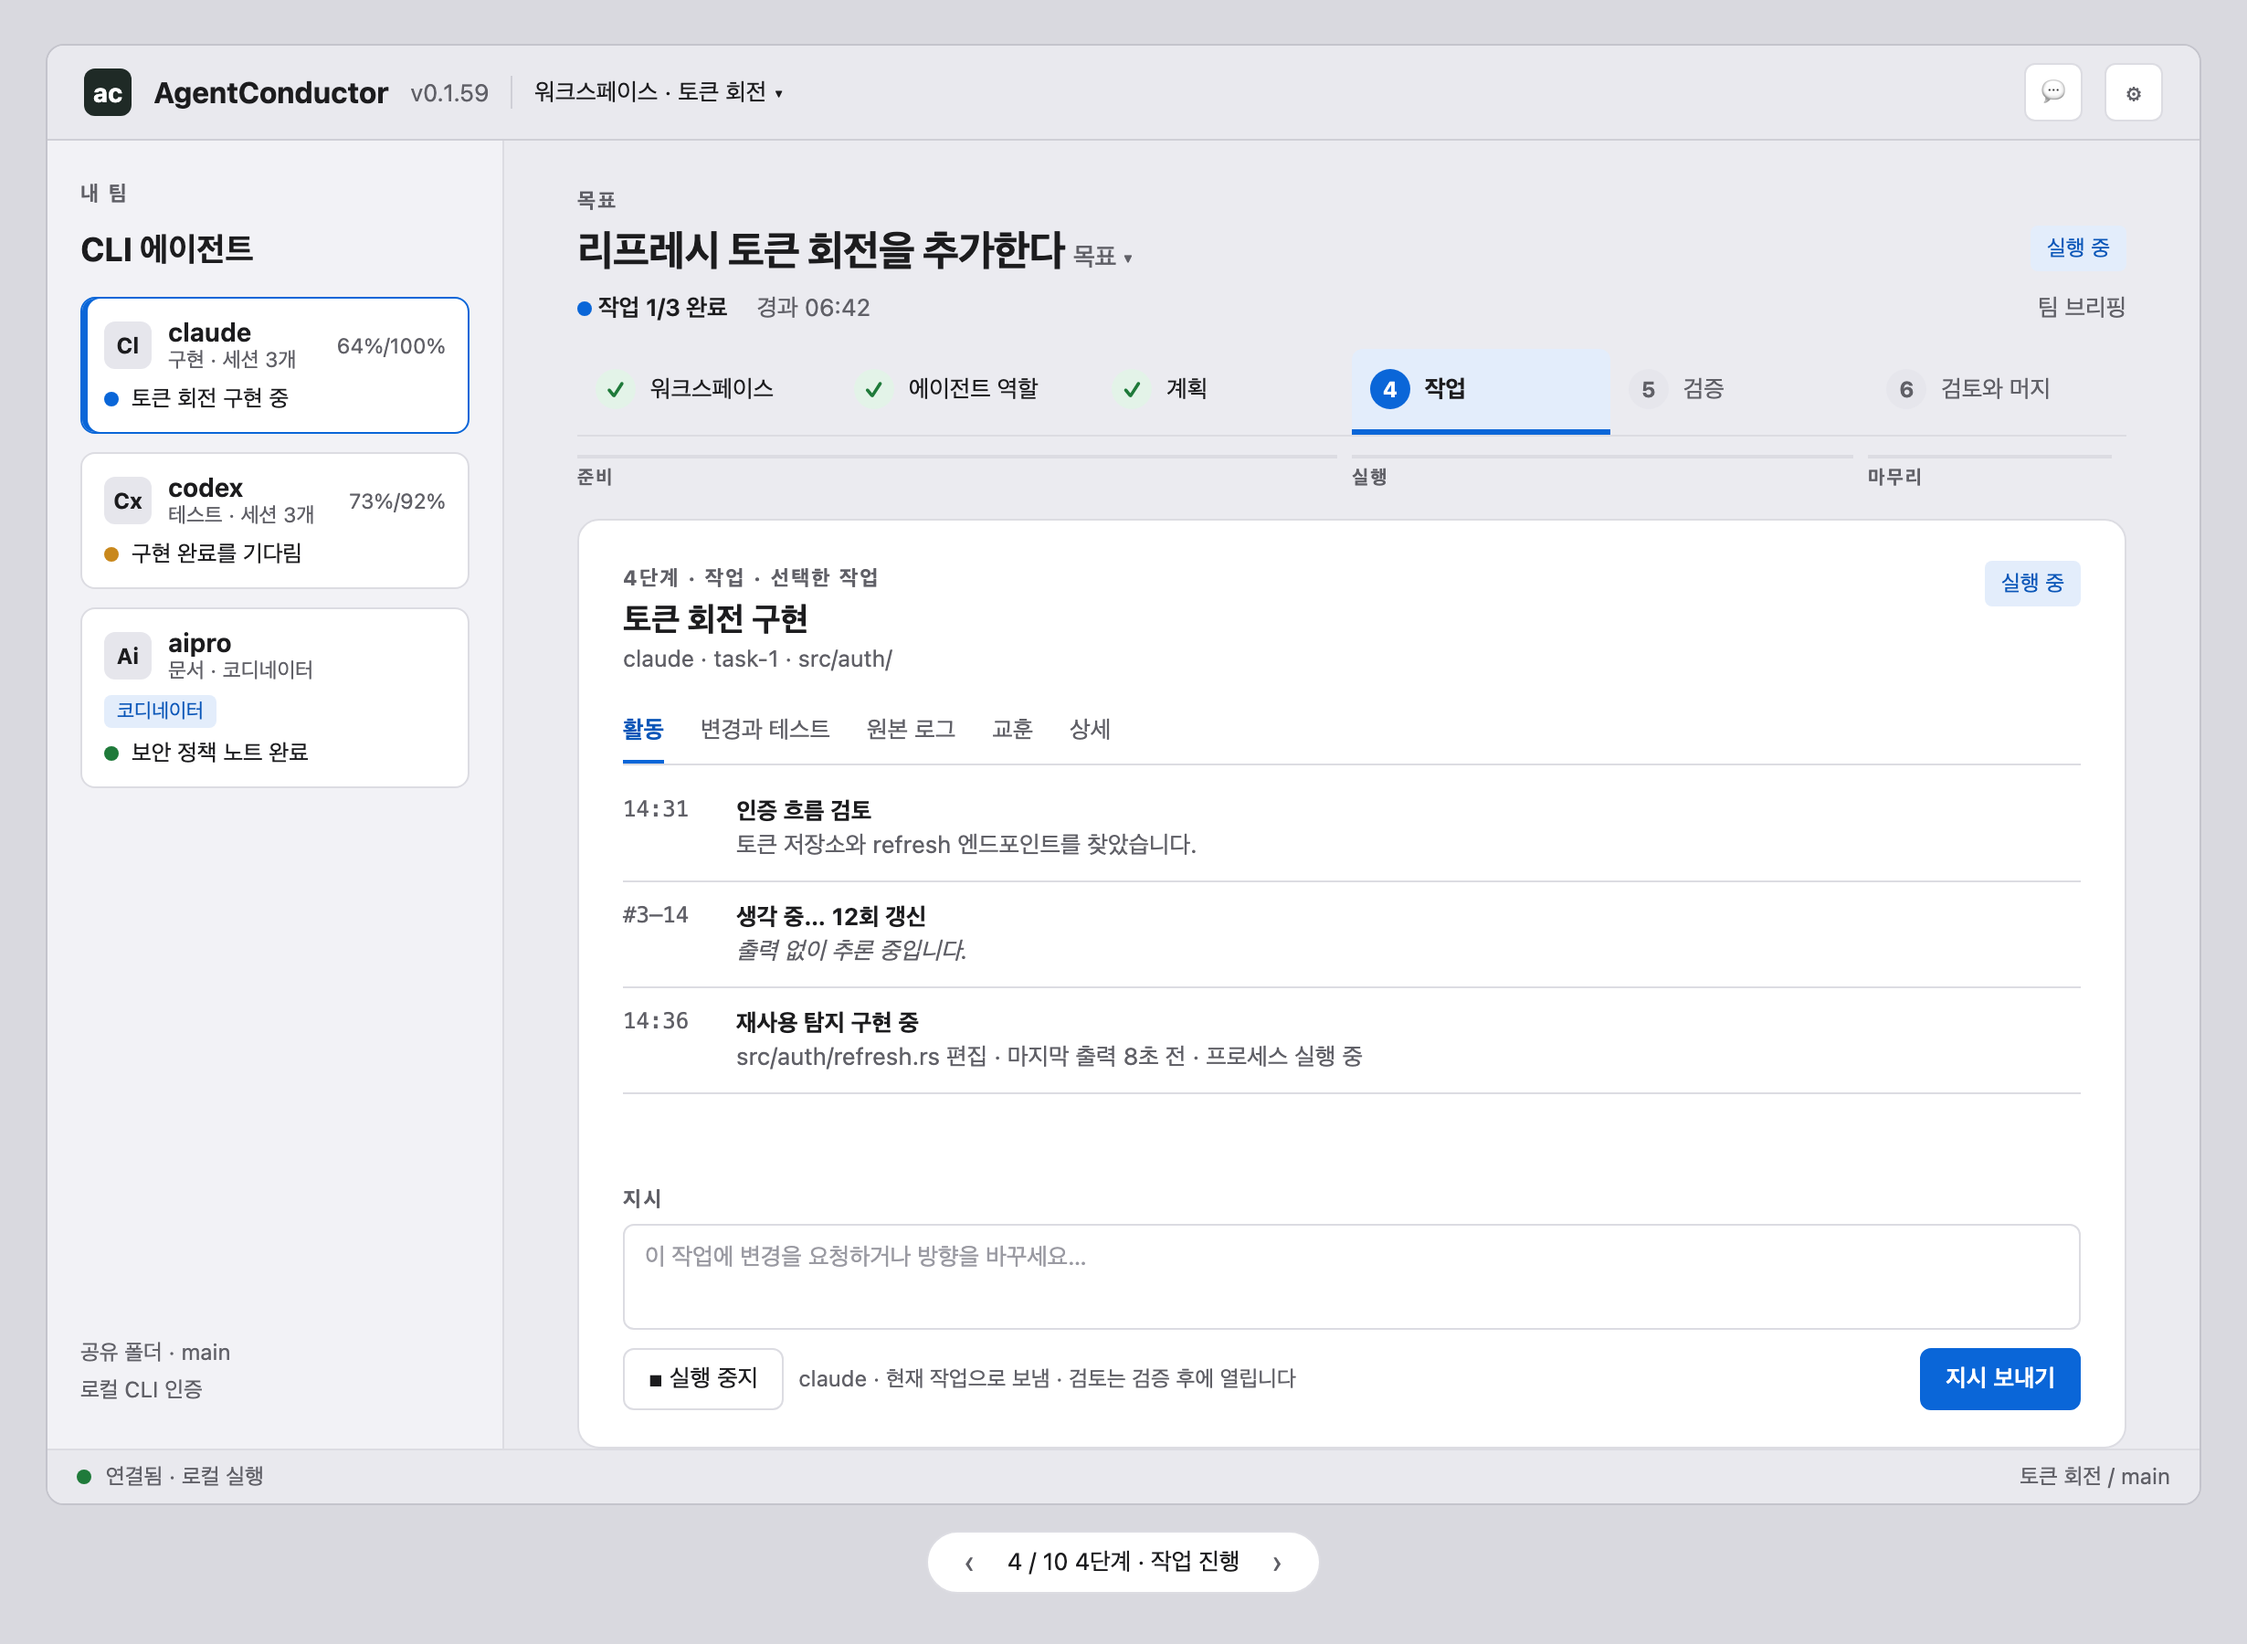
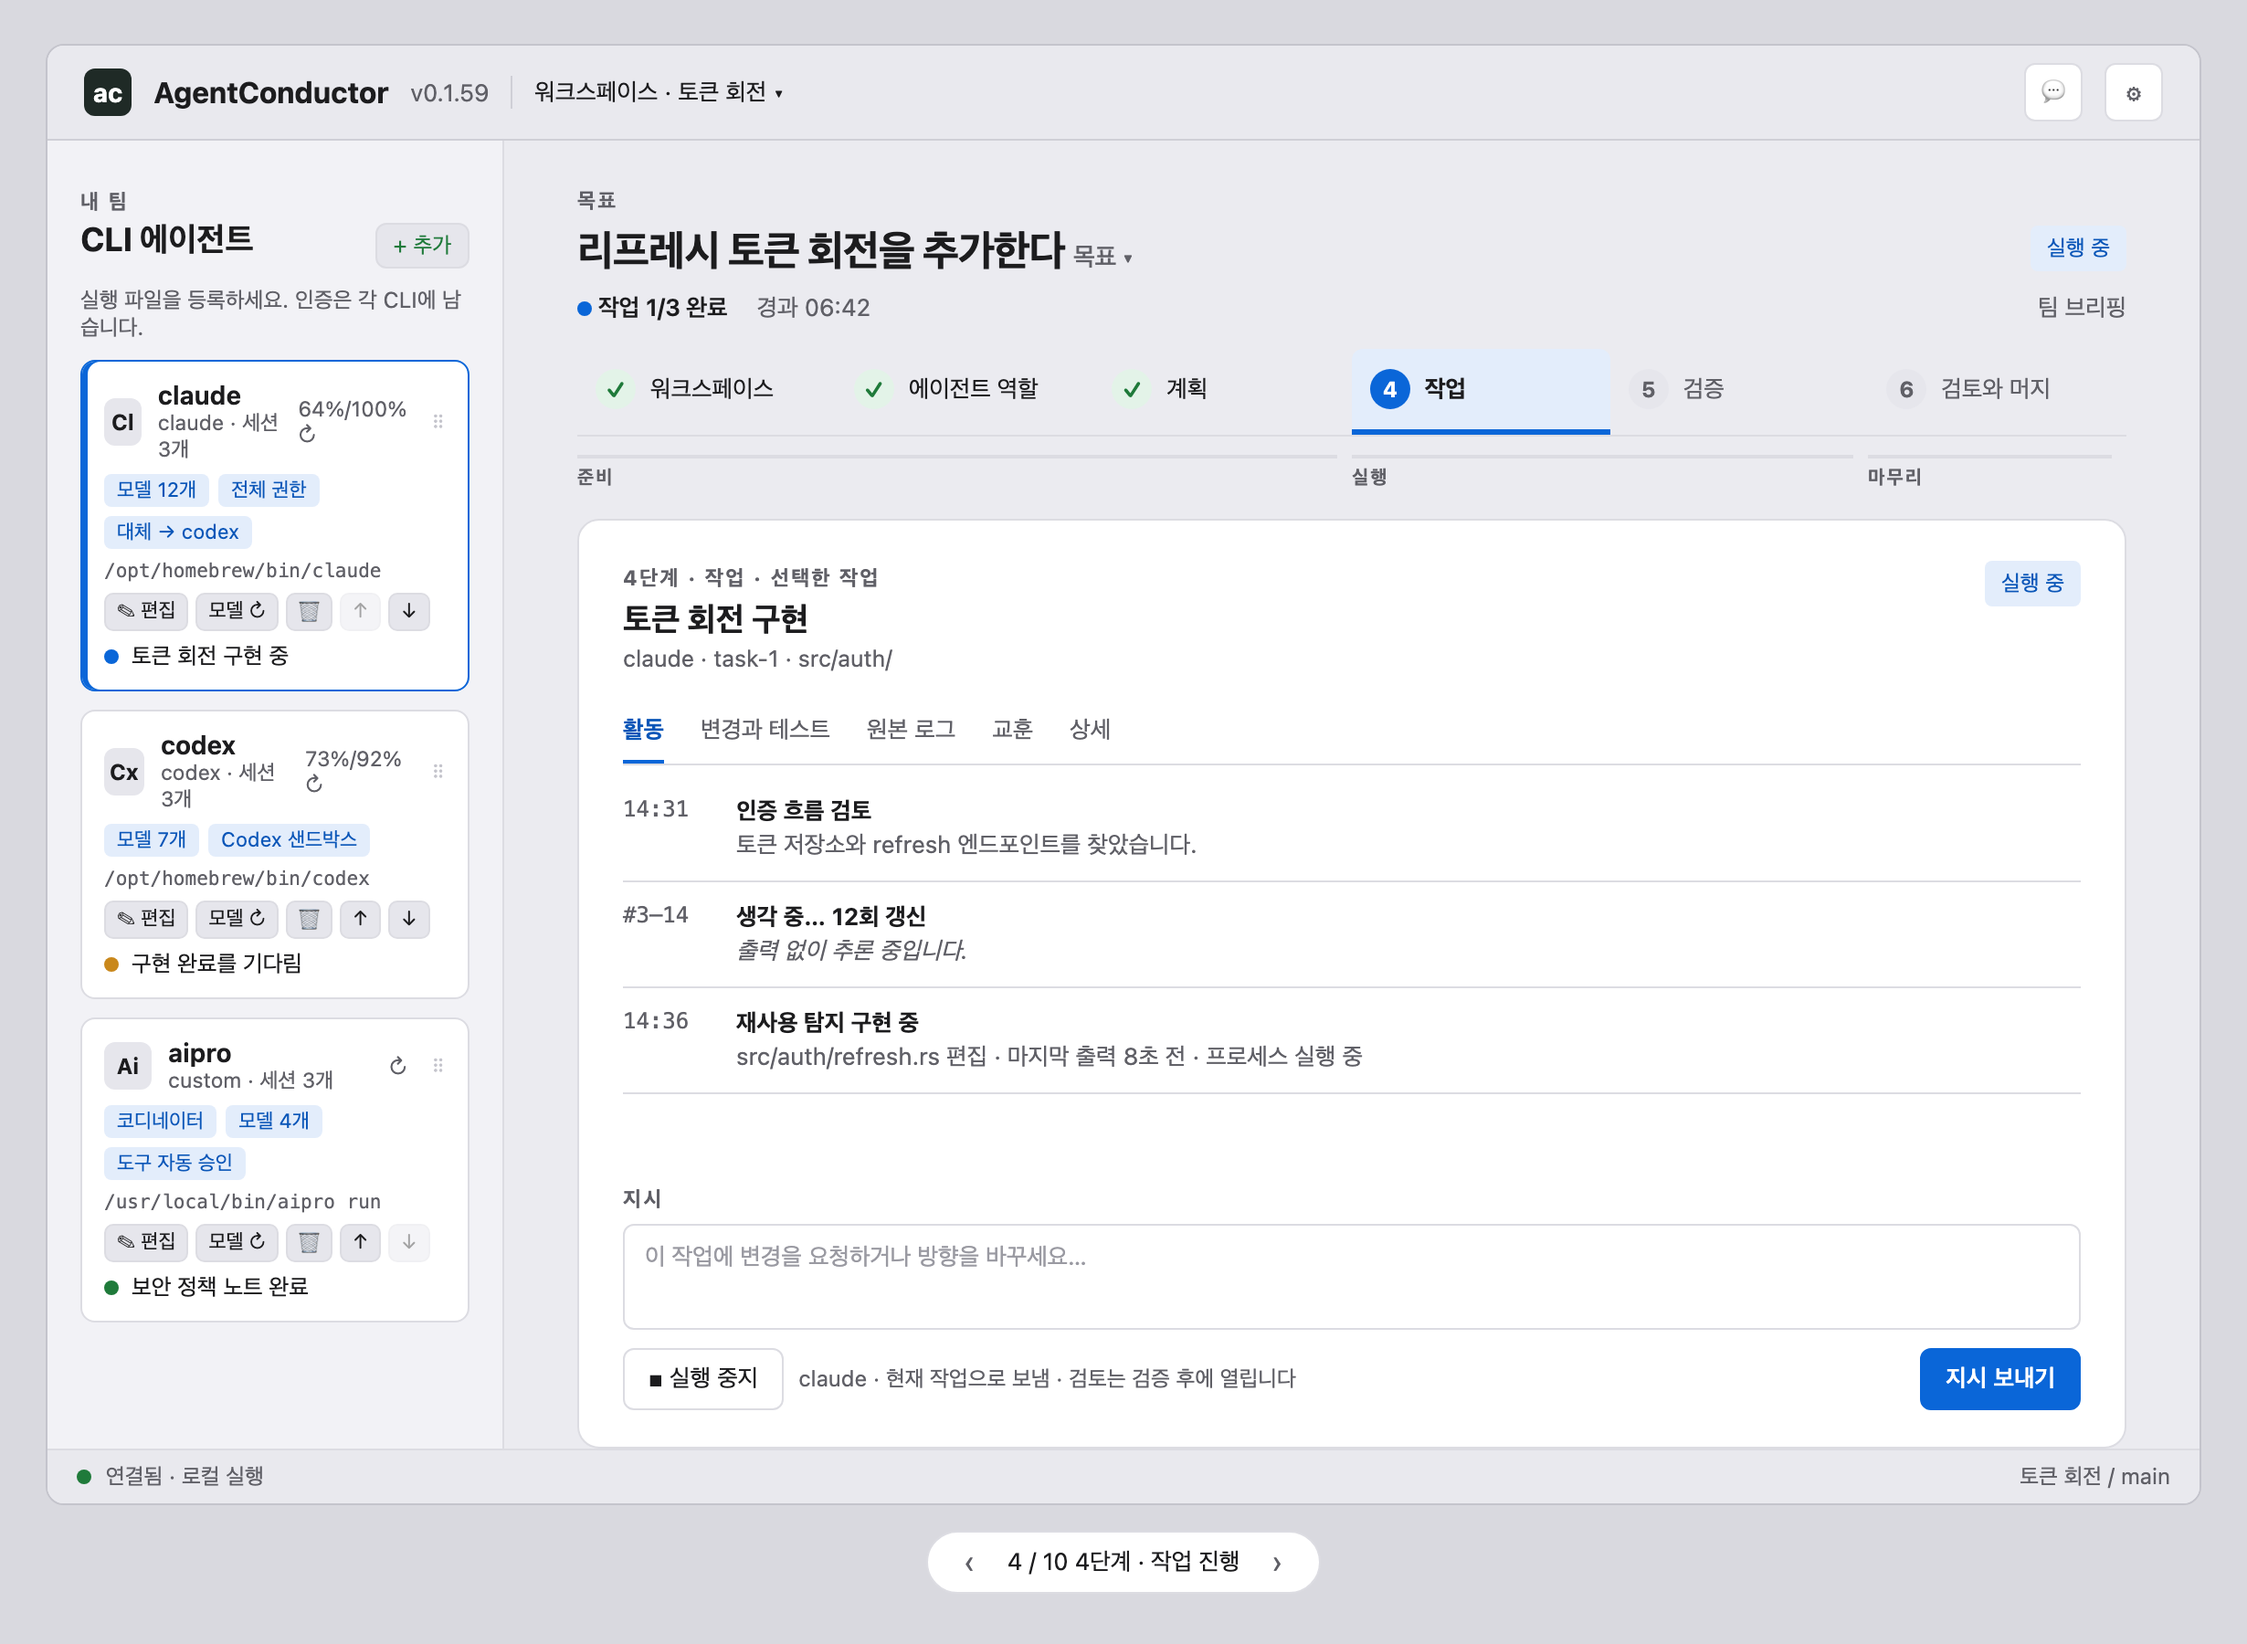
docs: keep every agent card function in the goal screen design (#387)

Changed region(s): [[0.0309, 0.0933, 0.2163, 0.5911], [0.0309, 0.7467, 0.1545, 0.8711], [0.0618, 0.6222, 0.1545, 0.7156]]

diff --git a/docs/design/unified-goal-screen.html b/docs/design/unified-goal-screen.html
@@ -51,16 +51,19 @@
 .status{height:30px;border-top:1px solid var(--line);background:var(--bar);display:flex;align-items:center;gap:8px;padding:0 16px;font-size:12px;color:var(--soft)}
 .pager{display:flex;align-items:center;gap:12px;background:#fff;border:1px solid var(--line);border-radius:20px;padding:6px 14px;font-size:13px}.pager button{border:0;background:none;font-size:16px;cursor:pointer;color:var(--soft)}
 .view{display:none}.view.show{display:contents}
+.tools{display:flex;gap:4px;flex-wrap:wrap}.tb{font-size:11px;border:1px solid var(--line);background:var(--fill);border-radius:5px;padding:2px 6px;color:var(--ink)}.exe{font-family:ui-monospace,Menlo,monospace;font-size:10.5px;color:var(--soft);white-space:nowrap;overflow:hidden;text-overflow:ellipsis}.grip{color:var(--line-strong);font-size:12px;margin-left:4px}.ref{color:var(--soft);font-size:12px}
+.railhead{display:flex;align-items:flex-end;justify-content:space-between}.add{font-size:12px;border:1px solid var(--line);background:var(--fill);border-radius:6px;padding:4px 9px}
+.rail{overflow:auto}
 </style></head><body>
 <div class="win">
 <div class="titlebar"><span class="mark">ac</span><strong>AgentConductor</strong><span class="ver">v0.1.59</span><span class="div"></span><span>워크스페이스 · 토큰 회전 ▾</span><span class="sp"></span><span class="ibtn">💬</span><span class="ibtn">⚙</span></div>
 <div class="shell">
 <aside class="rail">
-<span class="eyebrow">내 팀</span><h2>CLI 에이전트</h2>
-<div class="agent sel" data-v="b c d f g"><div class="top"><span class="ava">Cl</span><div><div class="name">claude</div><div class="meta">구현 · 세션 3개</div></div><span class="quota">64%/100%</span></div><div class="now" data-show="a"><span class="dot d-idle"></span>대기 중</div><div class="now" data-show="b"><span class="dot d-run"></span>토큰 회전 구현 중</div><div class="now" data-show="c d"><span class="dot d-ok"></span>작업 1개 완료</div><div class="now" data-show="e"><span class="dot d-idle"></span>대기 중</div></div>
-<div class="agent"><div class="top"><span class="ava">Cx</span><div><div class="name">codex</div><div class="meta">테스트 · 세션 3개</div></div><span class="quota">73%/92%</span></div><div class="now" data-show="a"><span class="dot d-idle"></span>대기 중</div><div class="now" data-show="b"><span class="dot d-wait"></span>구현 완료를 기다림</div><div class="now" data-show="c d"><span class="dot d-ok"></span>작업 1개 완료</div><div class="now" data-show="e"><span class="dot d-idle"></span>대기 중</div></div>
-<div class="agent"><div class="top"><span class="ava">Ai</span><div><div class="name">aipro</div><div class="meta">문서 · 코디네이터</div></div></div><div class="facts"><span class="fact">코디네이터</span></div><div class="now" data-show="a"><span class="dot d-ok"></span>계획 작성 완료</div><div class="now" data-show="b"><span class="dot d-ok"></span>보안 정책 노트 완료</div><div class="now" data-show="c"><span class="dot d-run"></span>검토 결과 정리 중</div><div class="now" data-show="d"><span class="dot d-ok"></span>교훈 2개 기록</div><div class="now" data-show="e"><span class="dot d-idle"></span>목표를 기다림</div></div>
-<div class="railfoot">공유 폴더 · main<br>로컬 CLI 인증</div>
+<div class="railhead"><div><span class="eyebrow">내 팀</span><h2>CLI 에이전트</h2></div><span class="add">+ 추가</span></div><div class="sub" style="font-size:12px">실행 파일을 등록하세요. 인증은 각 CLI에 남습니다.</div>
+<div class="agent" data-v="b c d f g"><div class="top"><span class="ava">Cl</span><div><div class="name">claude</div><div class="meta">claude · 세션 3개</div></div><span class="quota">64%/100% <span class="ref">↻</span></span><span class="grip">⠿</span></div><div class="facts"><span class="fact">모델 12개</span><span class="fact">전체 권한</span><span class="fact">대체 → codex</span></div><code class="exe">/opt/homebrew/bin/claude</code><div class="tools"><span class="tb">✎ 편집</span><span class="tb">모델 ↻</span><span class="tb">🗑</span><span class="tb" style="opacity:0.4">↑</span><span class="tb" style="opacity:1">↓</span></div><div class="now" data-show="a"><span class="dot d-idle"></span>대기 중</div><div class="now" data-show="b"><span class="dot d-run"></span>토큰 회전 구현 중</div><div class="now" data-show="c d"><span class="dot d-ok"></span>작업 1개 완료</div><div class="now" data-show="e"><span class="dot d-idle"></span>대기 중</div></div>
+<div class="agent"><div class="top"><span class="ava">Cx</span><div><div class="name">codex</div><div class="meta">codex · 세션 3개</div></div><span class="quota">73%/92% <span class="ref">↻</span></span><span class="grip">⠿</span></div><div class="facts"><span class="fact">모델 7개</span><span class="fact">Codex 샌드박스</span></div><code class="exe">/opt/homebrew/bin/codex</code><div class="tools"><span class="tb">✎ 편집</span><span class="tb">모델 ↻</span><span class="tb">🗑</span><span class="tb" style="opacity:1">↑</span><span class="tb" style="opacity:1">↓</span></div><div class="now" data-show="a"><span class="dot d-idle"></span>대기 중</div><div class="now" data-show="b"><span class="dot d-wait"></span>구현 완료를 기다림</div><div class="now" data-show="c d"><span class="dot d-ok"></span>작업 1개 완료</div><div class="now" data-show="e"><span class="dot d-idle"></span>대기 중</div></div>
+<div class="agent"><div class="top"><span class="ava">Ai</span><div><div class="name">aipro</div><div class="meta">custom · 세션 3개</div></div><span class="quota"><span class="ref">↻</span></span><span class="grip">⠿</span></div><div class="facts"><span class="fact">코디네이터</span><span class="fact">모델 4개</span><span class="fact">도구 자동 승인</span></div><code class="exe">/usr/local/bin/aipro run</code><div class="tools"><span class="tb">✎ 편집</span><span class="tb">모델 ↻</span><span class="tb">🗑</span><span class="tb" style="opacity:1">↑</span><span class="tb" style="opacity:0.4">↓</span></div><div class="now" data-show="a"><span class="dot d-ok"></span>계획 작성 완료</div><div class="now" data-show="b"><span class="dot d-ok"></span>보안 정책 노트 완료</div><div class="now" data-show="c"><span class="dot d-run"></span>검토 결과 정리 중</div><div class="now" data-show="d"><span class="dot d-ok"></span>교훈 2개 기록</div><div class="now" data-show="e"><span class="dot d-idle"></span>목표를 기다림</div></div>
+
 </aside>
 <main class="main">
 <span class="eyebrow">목표</span>

diff --git a/docs/design/unified-goal-screen.md b/docs/design/unified-goal-screen.md
@@ -8,7 +8,7 @@ The workspace screen (1 Workspace settings · 2 Agent roles · 3 Review the plan
 ## Design
 - **Flow:** the goal is set in step 1 together with the workspace; step 2 assigns roles for that goal; step 3 plans from the goal and the roles; steps 4–6 follow. A new goal starts again at step 1 with the folder and coordinator filled in and the previous roles as a starting point.
 - **One screen per goal, one stepper:** 1 Workspace and goal → 2 Agent roles → 3 Plan → 4 Tasks → 5 Verify → 6 Review and merge, grouped as prepare (1–3), run (4–5) and finish (6). Done steps show ✓, the current step is highlighted, and done steps open read-only while a run works. There is no "← Workspace" switch.
-- **One left list:** the CLI agents list stays in every step. Each card shows the agent, its quota and one live line (idle, the task it works on, waiting, done).
+- **One left list, nothing removed:** the CLI agents list stays in every step and keeps every function of today's card: + Add, provider and sessions, quota with its refresh icon, facts (models, permission, fallback, coordinator, configuration hint), executable path, Edit, Models ↻, Remove, and reordering by drag handle or ↑/↓ (R-102). The only addition is one live line per card (idle, the task it works on, waiting, done). The look changes; no agent function is dropped.
 - **One card per step:** each step uses the same card: eyebrow "Step n · name", a title, a one-line explanation, the body, and one action row at the bottom right. Only the next action is primary (Approve and run, Send direction, Open changes to review, New goal).
 - **Step 4:** activity, changes and tests, raw logs, lessons and details (today's task inspector) are tabs of the selected task card. The Activity tab keeps R-120's folded thinking line and R-159's facts.
 - **After step 6:** the card becomes "Goal done" (result, tests, lessons). The primary action is "New goal", or "Plan the next phase" when phases remain (R-56, R-195). A new goal starts at step 1 (folder and coordinator kept, a new goal text), then step 2 (roles for that goal) and step 3. Finished goals stay listed under the title (R-55, R-150).
